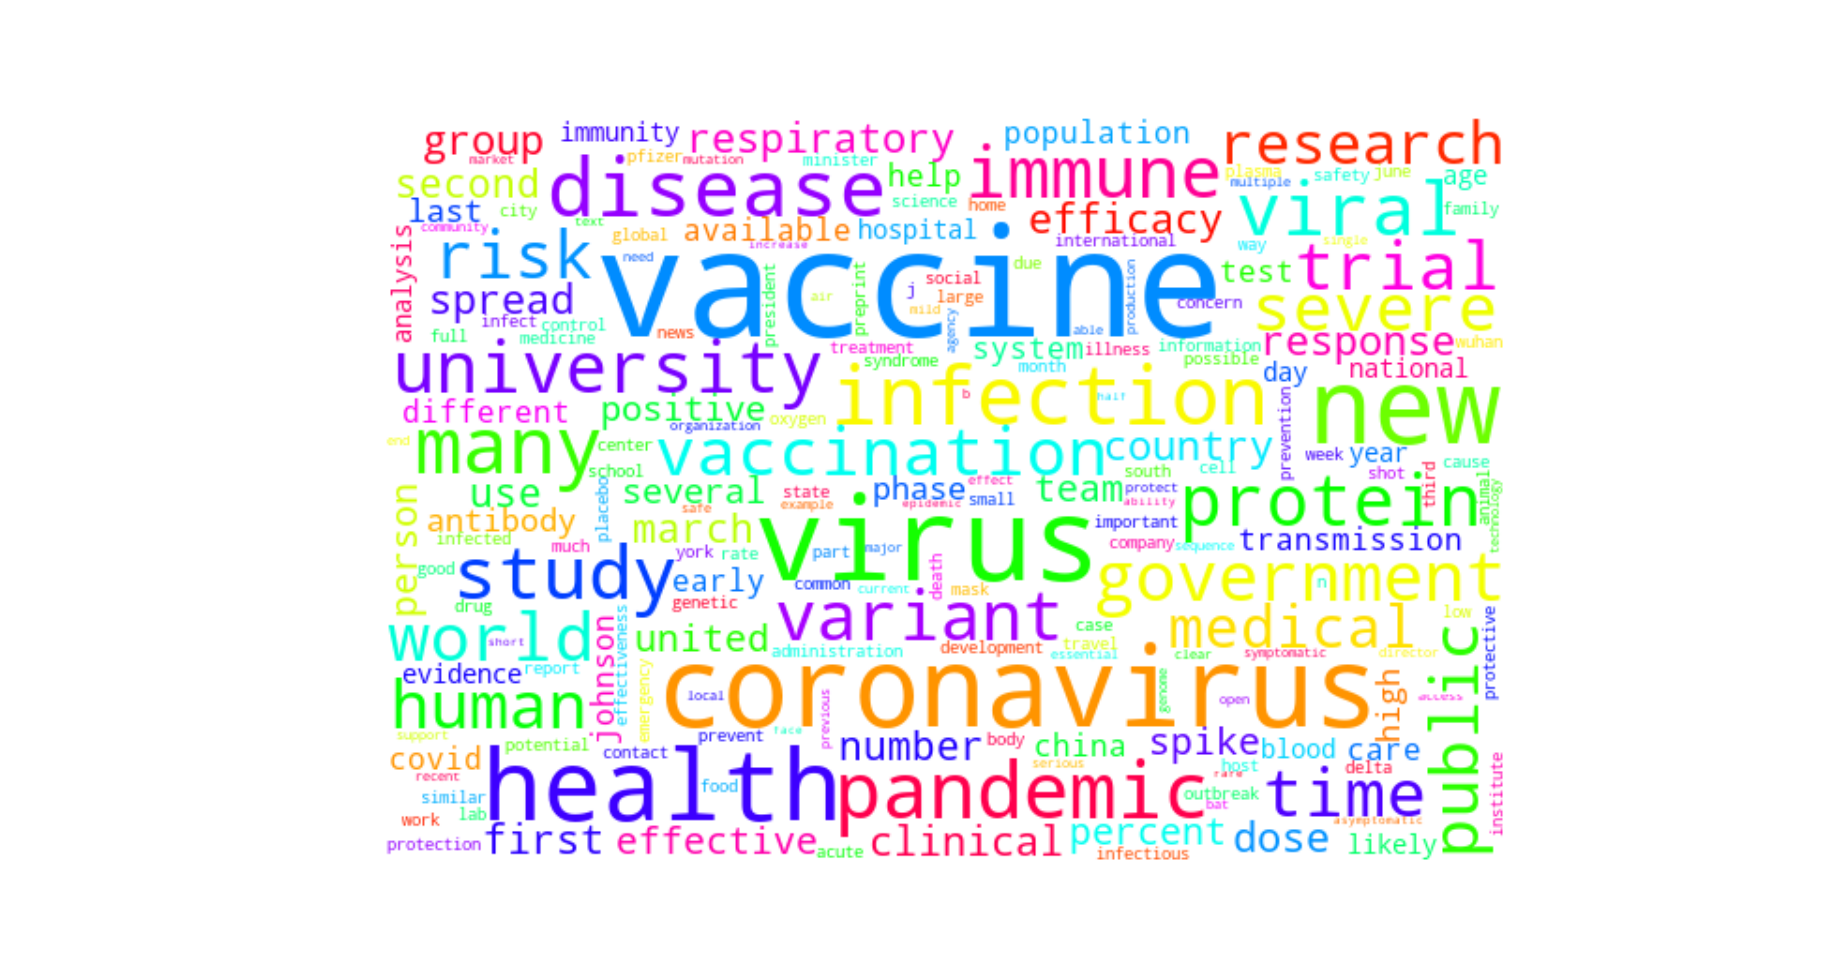
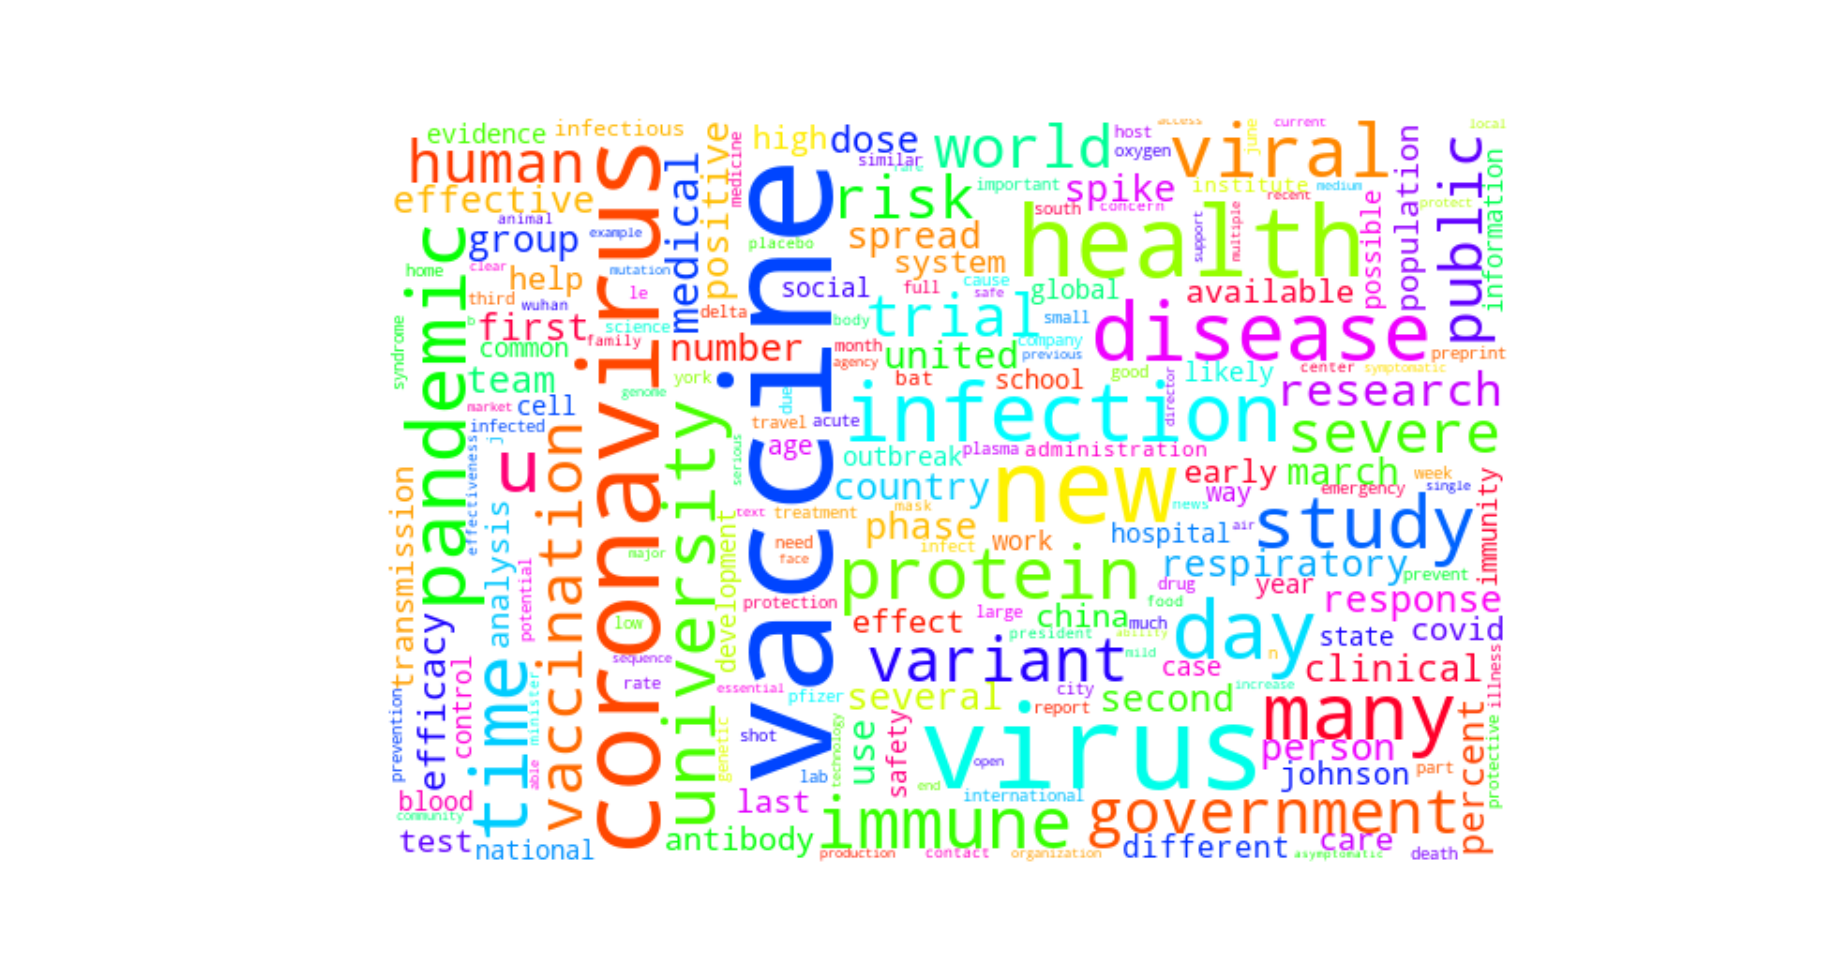
update

Changed region(s): [[0.1851, 0.1232, 0.8328, 0.8932]]

diff --git a/English/main.py b/English/main.py
@@ -161,14 +161,14 @@ lemm_tokens = lemmatizer(cleaned_tokens)
 #uncomment to viewfrequency graph of lemmatized tokens
 #Frequency_graphs(lemm_tokens)
 
-POS_tagged_tokens = POS_tagging(cleaned_tokens)
+POS_tagged_tokens = POS_tagging(lemm_tokens)
 
 #uncomment to form a frequency graph of all the POS_tags used
-#POS_tags = [list[1] for list in POS_tagged_tokens]
-#Frequency_graphs(POS_tags) 
+# POS_tags = [list[1] for list in POS_tagged_tokens]
+# Frequency_graphs(POS_tags) 
 
 
-wordcloud(cleaned_tokens,POS_tagged_tokens)
+wordcloud(lemm_tokens,POS_tagged_tokens)
 
 
 ##################################################################

diff --git a/README.md b/README.md
@@ -28,6 +28,7 @@ The project contains crawl_English.py and crawl_Hindi.py; these are the codes us
 
 ## Processing the Hindi Dataset
 `NLTK` is used to tokenize the data, `spacy` is used to remove stopwords - along with a custom stopword.txt, `spacy` is used for stemming and `stanza` is used to lemmatize and POS tag.
+(P.S: lemmatizationa and POS tagging takes longer than the others for the Hindi dataset)
 
 ## Frequency Graph
 `nltk.FreqDist` was used to make this.
